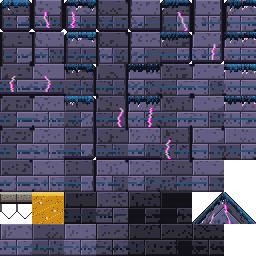
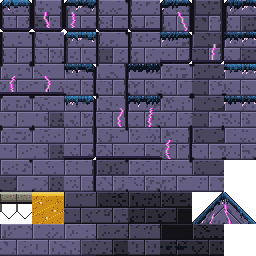
Pass 555: calm frame tiles
The Tower's plates and Vorrhallow's blocks share one body value with about
one worn block in seven, where a coin toss between two values made a
checkerboard. Vorrhallow's tide stain marks some interior tiles and no edge
tile. The High Boughs' wood uses the Heartwood's calm strands two steps up
the bark ramp. TilesetFactory.scatter mixes the cell hash so a variant no
longer repeats every fourth cell along a row. Design bible 12.45.

diff --git a/tools/art/tilegen.py b/tools/art/tilegen.py
@@ -232,17 +232,36 @@ def paint_shrine(img, ox, oy, seed, ramp):
                 x += 1 if hash2(seed, step, 34 + k) > 0.6 else (-1 if hash2(seed, step, 35 + k) > 0.7 else 0)
 
 
+# One body value, the odd worn block (design bible 12.45, pass 555). The Tower's
+# plates and Vorrhallow's blocks used to take one of two values on a coin toss,
+# so a field read as a checkerboard a whole shade deep, loudest in the darkened
+# interior tiers (independent grade, passes 540 and 550: "frame tiles repeat on a
+# loud grid, Tower and Vorrhallow checkered stone"). Most blocks now share the
+# body value and about one in seven is worn a shade darker.
+WORN_BLOCK = 0.86
+# The share of Vorrhallow's tiles that carry the teal tide stain. Drawn in every
+# tile it ruled a stripe across the field every 16 world pixels.
+TIDE_TILES = 0.35
+# build_tileset paints the 47 blob tiles with seeds 11 to 57 and the interior
+# tiles (MID, DEEP and the row-7 variants) with seeds from 101. Only those carry
+# the tide stain: an edge tile has no variants, so a stain on one repeats down
+# every wall face and pillar.
+INTERIOR_SEED = 101
+
+
 def paint_drowned(img, ox, oy, seed, ramp):
     """Vorrhallow's drowned masonry: squat dwarven blocks, dark and water-worn,
-    a teal tide line where the flood stood, and veins of magenta stillglass
-    forcing their way through the joints of some blocks."""
+    a teal tide stain on some where the flood stood, and veins of magenta
+    stillglass forcing their way through the joints of some blocks. The blocks
+    share one body value; the odd one is worn a shade darker (WORN_BLOCK)."""
     bw, bh = 16 * D, 8 * D
+    tide = seed >= INTERIOR_SEED and hash2(seed, 7, 31) < TIDE_TILES
     for y in range(T):
         row = y // bh
         for x in range(T):
             sx = x + (row % 2) * (bw // 2)
             bx, ly, lx = sx // bw, y % bh, sx % bw
-            shade = 3 if hash2(bx, row, seed) > 0.45 else 2
+            shade = 2 if hash2(bx, row, seed) > WORN_BLOCK else 3
             if ly == bh - 1 or lx == 0:
                 col = "night-1"
             elif ly == 0 or lx == 1:
@@ -253,8 +272,10 @@ def paint_drowned(img, ox, oy, seed, ramp):
                 col = f"{ramp}-{shade}"
                 if hash2(x // 2, y // 2, seed + 5) > 0.88:
                     col = f"{ramp}-{shade - 1}"
-            # The tide line: a band of teal stain across the tile.
-            if 11 * D <= y < 12 * D and hash2(x // 3, 0, seed + 9) > 0.2:
+            # The tide line: a band of teal stain across some tiles (TIDE_TILES).
+            if not tide:
+                pass
+            elif 11 * D <= y < 12 * D and hash2(x // 3, 0, seed + 9) > 0.2:
                 col = "sky-2"
             elif 12 * D <= y < 13 * D and hash2(x // 2, 1, seed + 9) > 0.6:
                 col = "sky-1"
@@ -401,7 +422,7 @@ def crystal_vein(img, ox, oy, seed):
 WOOD_STRANDS = 5
 
 
-def paint_wood(img, ox, oy, seed, ramp):
+def paint_wood(img, ox, oy, seed, ramp, lo=1):
     """Living wood: broad vertical strands of two values, long grain lines running
     down them, a long highlight here and there, and the odd knot.
 
@@ -414,7 +435,8 @@ def paint_wood(img, ox, oy, seed, ramp):
     # Strands: walk across the tile in runs of 4..9 columns, alternating value.
     # The layout is the same in every tile (WOOD_STRANDS, not ``seed``), so a
     # strand runs on unbroken from one tile to the one below it; the seed varies
-    # only the grain lines, highlights and knots laid over it.
+    # only the grain lines, highlights and knots laid over it. ``lo`` is the
+    # darker strand's step on the ramp (the High Boughs' sunlit wood sits at 3).
     strand = []
     k = 0
     while len(strand) < T:
@@ -423,12 +445,12 @@ def paint_wood(img, ox, oy, seed, ramp):
         k += 1
     for x in range(T):
         val, start = strand[x]
-        base = 2 if val else 1
+        base = lo + 1 if val else lo
         edge = x == start and x > 0              # a dark seam between strands
         for y in range(T):
             col = base
             if edge:
-                col = 0 if base == 1 else 1
+                col = base - 1
             img.putpixel((ox + x, oy + y), c(f"{ramp}-{col}"))
     # Long grain lines a shade darker, and the odd long highlight a shade lighter.
     for i in range(6):
@@ -438,8 +460,8 @@ def paint_wood(img, ox, oy, seed, ramp):
         lift = hash2(seed, i, 22) > 0.6
         for y in range(y0, min(T, y0 + length)):
             nm = img.getpixel((ox + gx, oy + y))
-            here = 2 if nm[:3] == c(f"{ramp}-2")[:3] else 1
-            col = min(here + 1, 3) if lift else max(here - 1, 0)
+            here = lo + 1 if nm[:3] == c(f"{ramp}-{lo + 1}")[:3] else lo
+            col = min(here + 1, lo + 2) if lift else max(here - 1, lo - 1)
             img.putpixel((ox + gx, oy + y), c(f"{ramp}-{col}"))
     if hash2(seed, 7, 3) > 0.92:  # rare: the few interior tiles repeat a lot
         # A knot: a dark eye in a lighter ring of grain.
@@ -448,7 +470,7 @@ def paint_wood(img, ox, oy, seed, ramp):
             for dx in range(-2, 3):
                 r = (dx / 2.5) ** 2 + (dy / 3.5) ** 2
                 if r <= 1.0:
-                    col = f"{ramp}-0" if r < 0.35 else (f"{ramp}-3" if dx < 0 or dy < 0 else f"{ramp}-1")
+                    col = f"{ramp}-{lo - 1}" if r < 0.35 else (f"{ramp}-{lo + 2}" if dx < 0 or dy < 0 else f"{ramp}-{lo}")
                     img.putpixel((ox + kx + dx, oy + ky + dy), c(col))
 
 
@@ -472,23 +494,13 @@ def paint_limb(img, ox, oy, seed, ramp):
 
 
 def paint_bough(img, ox, oy, seed, ramp):
-    """A sunlit bough high in the canopy: The Heartwood's grain two shades lighter,
-    warm light streaking down the bark, and the odd sprig of young leaves."""
-    for x in range(T):
-        base = 3 if hash2(x // 3, 0, seed) > 0.4 else 4
-        phase = hash2(x, 1, seed) * 32
-        for y in range(T):
-            n = math.sin((y + phase) * 0.2)
-            col = base
-            if n > 0.9 and base == 4 and x % 3 == 1:
-                col = 5
-            elif n < -0.85:
-                col = base - 1
-            if x % 12 == 0:
-                col = min(col, 3)
-            elif x % 12 == 1 and hash2(x, y // 4, seed) > 0.5:
-                col = min(col + 1, 5)
-            img.putpixel((ox + x, oy + y), c(f"{ramp}-{col}"))
+    """A sunlit bough high in the canopy: The Heartwood's strands two shades
+    lighter, and the odd sprig of young leaves.
+
+    It shares paint_wood's calm strands (design bible 12.28 and 12.45). The older
+    face drew a sine grain down every column and a dark line every 6 world
+    pixels, and read as "striped dirt" (independent grade, pass 550)."""
+    paint_wood(img, ox, oy, seed, ramp, lo=3)
     for k in range(2):
         if hash2(seed, k, 21) > 0.6:
             # A sprig: a short stem and two bright leaves.
@@ -565,13 +577,15 @@ def cap_stone(img, ox, oy, seed, x0, x1, ramp="stone"):
 
 def paint_plates(img, ox, oy, seed, ramp):
     """Dwarven iron: square plates of 8x8 world pixels, bevelled and lit from the
-    top left, a rivet at each corner, and rust bleeding down from the odd rivet."""
+    top left, a rivet at each corner, and rust bleeding down from the odd rivet.
+    The plates share one body value; the odd one is worn a shade darker
+    (WORN_BLOCK, design bible 12.45)."""
     pw = 8 * D
     for y in range(T):
         for x in range(T):
             px, py = x // pw, y // pw
             lx, ly = x % pw, y % pw
-            shade = 3 if hash2(px + ox // T * 2, py + oy // T * 2, seed) > 0.5 else 2
+            shade = 2 if hash2(px + ox // T * 2, py + oy // T * 2, seed) > WORN_BLOCK else 3
             if lx == 0 or ly == 0:
                 col = f"{ramp}-1"
             elif lx == 1 or ly == 1:

diff --git a/tools/art/test_tilegen.py b/tools/art/test_tilegen.py
@@ -963,7 +963,7 @@ def test_graded_play_fill_is_calm():
     # scattered variants, fewer than 23% of neighbouring pixel pairs change colour
     # (the old painters ran 26% to 33%) and almost no pixel stands alone. (Restoring
     # the old wood grain, strata or small cells fails the share.)
-    for zone in ("haar", "heartwood", "sunken", "evercrown"):
+    for zone in ("haar", "heartwood", "sunken", "evercrown", "boughs"):  # boughs: pass 555
         seeds = (11 + tg.blob_masks().index(255), 201, 202, 203)
         edge = sum(_fill_busyness(zone, s)[0] for s in seeds) / len(seeds)
         iso = sum(_fill_busyness(zone, s)[1] for s in seeds) / len(seeds)

diff --git a/docs/loop/pass-555.md b/docs/loop/pass-555.md
@@ -1,0 +1,90 @@
+# Pass 555: calm frame tiles
+
+## Category
+
+Art cohesion, from the independent grade taken after pass 550 (5.3/10): "frame tiles repeat on a
+loud grid (Tower and Vorrhallow checkered stone, Heartwood/Boughs striped dirt) and overpower the
+playfield". The pass 540 grade said the same of the Tower and Vorrhallow brick. Pass 554's "Next"
+named it.
+
+No note from Sean was new. The queue's first item (lighting and depth) is down to pieces parked for
+a watched session, so the pass took the top open art defect instead. The PixelLab art loop stays
+**gated** on him: three guardian bases (Haar Wyrm, Thane Vorrund, Drowned Warden) wait for his OK,
+the limit of three. No PixelLab generations were spent, and no Autosprite credits. The hosted
+workbench is still down (its Vercel Blob store is suspended); it stays under "stuck" for Sean.
+README's playtest link already points at sagedragoon79/Yldenfall.
+
+## Audit
+
+- Shot `tower/foot` and `vorrhallow/gate_hall`. The floor and ceiling fields read as a
+  checkerboard, loudest two and three tiles in.
+- Measured the mean brightness of each 16 px block of the twelve interior tiles of each atlas. In
+  both zones about half the blocks sat a whole ramp step (about 23 of 255) under the other half:
+  `paint_plates` and `paint_drowned` each chose a block's value with a coin toss.
+- Vorrhallow's teal tide line crossed every tile at the same height, edge tiles included, so it
+  ruled dashes down every pillar.
+- `paint_bough` (the High Boughs) drew a sine grain down every column and a dark line every 6 world
+  pixels. The Heartwood's `paint_wood` has been calm since pass 534 and needed nothing.
+- With the checker gone, the worn blocks that remained fell on a fixed beat: `TilesetFactory.ground`
+  took `hash % 4` of a hash whose low bits follow the cell's own, so every fourth cell along a row
+  drew the same tile.
+
+## What was built
+
+- **`tools/art/tilegen.py`**: plates and blocks share one body value and about one in seven is worn
+  a step darker (`WORN_BLOCK`); the tide stain marks about a third of the interior tiles and no
+  edge tile (`TIDE_TILES`, `INTERIOR_SEED`); `paint_bough` calls `paint_wood` two steps up the bark
+  ramp (a new `lo` argument) and keeps its sprigs.
+- **`TilesetFactory.scatter`**: a mixed hash of the cell for choosing a variant. Every zone's solid
+  fields are rescattered; the tiles are the same.
+- `assets/tiles/tower.png`, `vorrhallow.png` and `boughs.png` regenerated. The script also rewrote
+  five `assets/bg/*_mid.png` files with no change in the painters behind them (they differ from
+  run to run); those were put back.
+- Design bible 12.45 (new).
+
+## Judged by eye
+
+Looked at `tower/foot`, `vorrhallow/gate_hall` and `boughs/thicket_road` at 1x before and after,
+and at crops of the fields. The Tower floor reads as riveted plate with the odd dark plate, and the
+Vorrhallow ceiling as coursed block with the odd worn block; neither pulls the eye from the room.
+The Boughs wood reads as broad sunlit strands. Two retakes: the first version left the worn blocks
+on a four-cell beat (hence `scatter`), and the tide stain still dashed down each pillar (hence no
+edge tiles).
+
+Not done: the interior tiers still step in whole tiles, which shows as square contours inside a
+thick Boughs trunk; the Tower's plate bevel is still a 16 px grid by design (it is riveted iron).
+
+## Tests
+
+`tests/test_calm_frame_tiles.gd`, five tests: under a quarter of each zone's interior blocks are
+worn, at least two are, and none stands brighter than the body; the tide stain is on at most half
+the interior tiles and on no wall face; the bough fill changes colour between under 23% of
+neighbouring pixels and under 6% down a column; cells one to eight apart along a row or down a
+column match about as often as chance; each depth still draws its four tiles about equally.
+`tools/art/test_tilegen.py` adds the Boughs to its calm-fill guard.
+
+Mutation check: `WORN_BLOCK` back at 0.5 fails 17 checks; the tide stain on every tile fails 3;
+the old `boughs.png` fails both bough checks; the old hash fails 26.
+
+## Rubric (design bible 15.3)
+
+| Category | Weight | Score | Notes |
+| --- | --- | --- | --- |
+| Movement feel | 20 | 99 | Unchanged. |
+| Combat and enemies | 15 | 99 | Unchanged. |
+| World and level design | 15 | 99 | Unchanged; one-template rooms, the empty mid-ground and the Proving Scar's framing remain. |
+| Art cohesion | 15 | 98 | The frame tiles of three zones are quiet. The HD hero and the guardian bases (gated art loop) remain. |
+| Bosses | 10 | 99 | Unchanged. |
+| Systems | 10 | 99 | Unchanged. |
+| Audio | 5 | 99 | Unchanged. |
+| Stability and performance | 5 | 99 | Unchanged. |
+| Story and world | 5 | 99 | Unchanged. |
+
+Weighted: 98.85. Full suite: SUITE_LINE
+
+## Next
+
+Pass 556: the art loop stays **gated** on Sean. From the independent grade taken after this pass,
+its top defect that needs no watched session. Otherwise, still open from the pass 550 grade: the
+Proving Scar's framing. From the pass 545 grade: the uniform rain over the Spires. The item icons
+on the Equipment and Inventory pages are a follow-on to pass 554.

diff --git a/docs/design-bible.md b/docs/design-bible.md
@@ -2120,6 +2120,17 @@ The pass 550 grade called the shop "a plain box with no item icons or portrait" 
 
 `UiArt` loads both sheets (`assets/ui/item_icons`, `assets/ui/portraits`). `test_the_shop_shows_what_it_sells` checks that every item has a shaded icon of its own, that look-alikes differ, that every shop has a keeper with a portrait, that every shelf row names its item's icon, and the menu's layout with and without them.
 
+### 12.45 Calm frame tiles: one body value, the odd worn block (pass 555)
+
+The pass 550 grade (and the pass 540 one before it) said the frame tiles "repeat on a loud grid (Tower and Vorrhallow checkered stone, Heartwood/Boughs striped dirt) and overpower the playfield". The solid fields that frame a room are the largest surfaces on screen, so they must be the quietest.
+
+- **One body value.** `paint_plates` (the Tower) and `paint_drowned` (Vorrhallow) used to give each plate or block one of two values on a coin toss. Two values a whole ramp step apart, half and half, are a checkerboard, and the darker interior tiers (12.8) made it louder. Most blocks now share the body value, and about one in seven is worn a step darker (`WORN_BLOCK`). No block stands brighter than the body. This is the rule for any new masonry painter: variation is the exception, not half the field.
+- **The tide stain marks some tiles.** Vorrhallow's teal tide line crossed every tile at the same height and ruled a stripe through a field every 16 world pixels. It now marks about a third of the interior tiles (`TIDE_TILES`) and no edge tile: an edge tile has no variants, so a stain on one repeats down every wall face and pillar.
+- **The High Boughs' wood is the Heartwood's strands.** `paint_bough` drew a sine grain down every column and a dark line every 6 world pixels, the "striped dirt". It now calls `paint_wood` (12.28) two steps up the bark ramp: broad strands, long grain lines, and its sprigs of young leaves. The Heartwood's own tiles are unchanged; they have been calm since pass 534.
+- **The scatter has no beat.** `TilesetFactory.ground` chose a variant from `hash % 4`, and that hash's low bits followed the cell's own, so every fourth cell along a row drew the same tile. With most blocks one value, a worn block then marched across a floor at a fixed step. `TilesetFactory.scatter` mixes the hash first. Every zone's fields are rescattered by this; the tiles themselves are the same.
+
+Only `assets/tiles/tower.png`, `vorrhallow.png` and `boughs.png` are regenerated. Collision, edges, caps and outlines are untouched. `tests/test_calm_frame_tiles.gd` holds all four: under a quarter of the Tower's and Vorrhallow's interior blocks are worn and at least two are, the tide stain is on at most half the interior tiles and on no wall face, the bough fill changes colour between under 23% of neighbouring pixels and hardly at all down a column, and cells one to eight apart along a row or down a column match about as often as chance.
+
 ## 13. Asset Production Plan
 
 ### 13.1 Tools and when to use each
